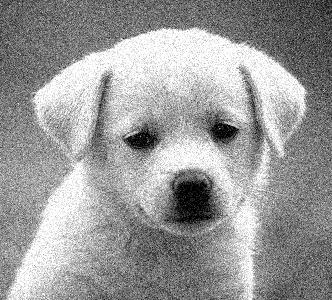
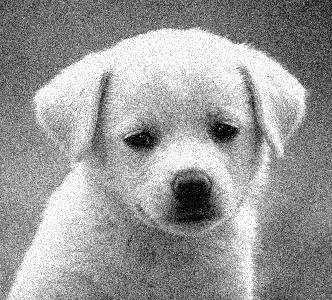
add "PDE on split" part

diff --git a/main.py b/main.py
@@ -154,19 +154,19 @@ def PDE():
     # parameters
     num_col = 5
     iterations = 80
-    b_gaussian = 0.1
+    k_gaussian = 0.1
     lamb_gaussian = 0.1
-    b_sp = 0.1
+    k_sp = 0.1
     lamb_sp = 0.1
-    b_sp1 = 0.2
+    k_sp1 = 0.2
 
     print("applying PDE with Gaussian noise image...")
 
     log_Gaussian_PDE = anisotropic_diffusion(GAUSSIAN_IMAGE, log_freq=iterations / (num_col - 1), iterations=iterations,
-                                             b=b_gaussian, lamb=lamb_gaussian)
+                                             k=k_gaussian, lamb=lamb_gaussian)
 
     figure = plt.figure()
-    plt.title("PDE on Gaussian Noise Image with k = " + str(b_gaussian))
+    plt.title("PDE on Gaussian Noise Image with k = " + str(k_gaussian))
     plt.axis('off')
     plt.gray()
 
@@ -191,11 +191,12 @@ def PDE():
 
     iterations_sp = 160
 
-    log_SA_PDE = anisotropic_diffusion(SALT_PEPPER_IMAGE, log_freq=iterations_sp / (num_col - 1), iterations=iterations_sp,
-                                       b=b_sp, lamb=lamb_sp)
+    log_SA_PDE = anisotropic_diffusion(SALT_PEPPER_IMAGE, log_freq=iterations_sp / (num_col - 1),
+                                       iterations=iterations_sp,
+                                       k=k_sp, lamb=lamb_sp)
 
     figure = plt.figure()
-    plt.title("PDE on Salt & Pepper Noise Image with k = " + str(b_sp))
+    plt.title("PDE on Salt & Pepper Noise Image with k = " + str(k_sp))
     plt.axis('off')
     plt.gray()
 
@@ -219,10 +220,10 @@ def PDE():
     print("applying PDE with Salt & Pepper noise image (k = 0.2)...")
 
     log_SA_PDE1 = anisotropic_diffusion(SALT_PEPPER_IMAGE, log_freq=iterations / (num_col - 1), iterations=iterations,
-                                        b=b_sp1, lamb=lamb_sp)
+                                        k=k_sp1, lamb=lamb_sp)
 
     figure = plt.figure()
-    plt.title("PDE on Salt & Pepper Noise Image with k = " + str(b_sp1))
+    plt.title("PDE on Salt & Pepper Noise Image with k = " + str(k_sp1))
     plt.axis('off')
     plt.gray()
 
@@ -305,10 +306,8 @@ def compare_k():
 
     iterations_gaussian = 40
     iterations_sp = 100
-    b = np.arange(0.05, 0.61, 0.01)
+    k = np.arange(0.05, 0.61, 0.01)
     lamb = 0.1
-    b_gaussian = [0.05, 0.1, 0.15, 0.2, 0.25, 0.3, 0.35, 0.4]
-    b_sp = [0.2, 0.25, 0.3, 0.35, 0.4, 0.45, 0.5, 0.55]
 
     result_image_gaussian = []
     result_psnr_gaussian = []
@@ -318,16 +317,16 @@ def compare_k():
 
     original_image = np.array(Image.open(ORIGINAL_IMAGE).convert('L')) / 255
 
-    for each_b in b:
+    for each_k in k:
         log = anisotropic_diffusion(GAUSSIAN_IMAGE, log_freq=iterations_gaussian,
                                     iterations=iterations_gaussian,
-                                    b=each_b, lamb=lamb)
+                                    k=each_k, lamb=lamb)
         result_image_gaussian.append(log[-1])
         result_psnr_gaussian.append(PSNR(log[-1], original_image))
 
         log = anisotropic_diffusion(SALT_PEPPER_IMAGE, log_freq=iterations_sp,
                                     iterations=iterations_sp,
-                                    b=each_b, lamb=lamb)
+                                    k=each_k, lamb=lamb)
         result_image_sp.append(log[-1])
         result_psnr_sp.append(PSNR(log[-1], original_image))
 
@@ -339,19 +338,158 @@ def compare_k():
     plt.gray()
 
     ax1 = figure.add_subplot(2, 1, 1)
-    ax1.plot(b, result_psnr_gaussian, ".-")
+    ax1.plot(k, result_psnr_gaussian, ".-")
     plt.xlabel("k")
     plt.ylabel("PSNR/dB")
     plt.title("PSNR for Gaussian Noise image with 40 iterations")
 
     ax2 = figure.add_subplot(2, 1, 2)
-    ax2.plot(b, result_psnr_sp, ".-")
+    ax2.plot(k, result_psnr_sp, ".-")
     plt.xlabel("k")
     plt.ylabel("PSNR/dB")
     plt.title("PSNR for Salt & Pepper Noise image with 100 iterations")
 
     figure.tight_layout()
     plt.savefig("images/PDE_k.jpg")
+    plt.show()
+
+    print("")
+
+
+def split_PDE():
+    print("splitting the image to apply PDE respectively...")
+
+    original_image = np.array(Image.open(ORIGINAL_IMAGE).convert('L')) / 255
+
+    gaussian_image = np.array(Image.open(GAUSSIAN_IMAGE).convert('L')) / 255
+    gaussian_pde_result = anisotropic_diffusion(GAUSSIAN_IMAGE, log_freq=40, iterations=40, k=0.1, lamb=0.1)[-1]
+
+    salt_pepper_image = np.array(Image.open(SALT_PEPPER_IMAGE).convert('L')) / 255
+    salt_pepper_pde_result = anisotropic_diffusion(GAUSSIAN_IMAGE, log_freq=100, iterations=100, k=0.1, lamb=0.1)[-1]
+
+    gaussian_pde_result_2x2 = np.zeros(original_image.shape, np.float64)
+    gaussian_pde_result_4x4 = np.zeros(original_image.shape, np.float64)
+    salt_pepper_pde_result_2x2 = np.zeros(original_image.shape, np.float64)
+    salt_pepper_pde_result_4x4 = np.zeros(original_image.shape, np.float64)
+
+    h = original_image.shape[0]
+    w = original_image.shape[1]
+
+    div = 2
+    unit_h = int(h / div)
+    unit_w = int(w / div)
+
+    for i in range(div):
+        for j in range(div):
+            gaussian_part = gaussian_image[i * unit_h: (i + 1) * unit_h, j * unit_w: (j + 1) * unit_w]
+            gaussian_filename = "./images/split" + str(div) + "x" + str(div) + "/gaussian" + str(i) + str(j) + ".jpg"
+            imageio.imwrite(gaussian_filename, np.uint8(gaussian_part * 255))
+            gaussian_pde_result_2x2[i * unit_h: (i + 1) * unit_h, j * unit_w: (j + 1) * unit_w] = \
+                anisotropic_diffusion(gaussian_filename, log_freq=40, iterations=40, k=0.1, lamb=0.1)[-1]
+
+            salt_pepper_part = salt_pepper_image[i * unit_h: (i + 1) * unit_h, j * unit_w: (j + 1) * unit_w]
+            salt_pepper_filename = "./images/split" + str(div) + "x" + str(div) + "/salt_pepper" + str(i) + str(
+                j) + ".jpg"
+            imageio.imwrite(salt_pepper_filename, np.uint8(salt_pepper_part * 255))
+            salt_pepper_pde_result_2x2[i * unit_h: (i + 1) * unit_h, j * unit_w: (j + 1) * unit_w] = \
+                anisotropic_diffusion(salt_pepper_filename, log_freq=100, iterations=100, k=0.1, lamb=0.1)[-1]
+
+    div = 4
+    unit_h = int(h / div)
+    unit_w = int(w / div)
+
+    for i in range(div):
+        for j in range(div):
+            gaussian_part = gaussian_image[i * unit_h: (i + 1) * unit_h, j * unit_w: (j + 1) * unit_w]
+            gaussian_filename = "./images/split" + str(div) + "x" + str(div) + "/gaussian" + str(i) + str(j) + ".jpg"
+            imageio.imwrite(gaussian_filename, np.uint8(gaussian_part * 255))
+            gaussian_pde_result_4x4[i * unit_h: (i + 1) * unit_h, j * unit_w: (j + 1) * unit_w] = \
+                anisotropic_diffusion(gaussian_filename, log_freq=40, iterations=40, k=0.1, lamb=0.1)[-1]
+
+            salt_pepper_part = salt_pepper_image[i * unit_h: (i + 1) * unit_h, j * unit_w: (j + 1) * unit_w]
+            salt_pepper_filename = "./images/split" + str(div) + "x" + str(div) + "/salt_pepper" + str(i) + str(
+                j) + ".jpg"
+            imageio.imwrite(salt_pepper_filename, np.uint8(salt_pepper_part * 255))
+            salt_pepper_pde_result_4x4[i * unit_h: (i + 1) * unit_h, j * unit_w: (j + 1) * unit_w] = \
+                anisotropic_diffusion(salt_pepper_filename, log_freq=100, iterations=100, k=0.1, lamb=0.1)[-1]
+
+    psnr_gaussian = round(PSNR(gaussian_image, original_image), 4)
+    psnr_gaussian_1x1 = round(PSNR(gaussian_pde_result, original_image), 4)
+    psnr_gaussian_2x2 = round(PSNR_split(gaussian_pde_result_2x2, original_image, gaussian_pde_result), 4)
+    psnr_gaussian_4x4 = round(PSNR_split(gaussian_pde_result_4x4, original_image, gaussian_pde_result), 4)
+
+    psnr_salt_pepper = round(PSNR(salt_pepper_image, original_image), 4)
+    psnr_salt_pepper_1x1 = round(PSNR(salt_pepper_pde_result, original_image), 4)
+    psnr_salt_pepper_2x2 = round(PSNR_split(salt_pepper_pde_result_2x2, original_image, salt_pepper_pde_result), 4)
+    psnr_salt_pepper_4x4 = round(PSNR_split(salt_pepper_pde_result_4x4, original_image, salt_pepper_pde_result), 4)
+
+    print("\tPSNR for gaussian noise image:", str(psnr_gaussian))
+    print("\tPSNR for PDE on gaussian noise image with split 1x1:", str(psnr_gaussian_1x1))
+    print("\tPSNR for PDE on gaussian noise image with split 2x2:", str(psnr_gaussian_2x2))
+    print("\tPSNR for PDE on gaussian noise image with split 4x4:", str(psnr_gaussian_4x4))
+
+    print("")
+
+    print("\tPSNR for salt & pepper noise image:", str(psnr_salt_pepper))
+    print("\tPSNR for PDE on salt & pepper noise image with split 1x1:", str(psnr_salt_pepper_1x1))
+    print("\tPSNR for PDE on salt & pepper noise image with split 2x2:", str(psnr_salt_pepper_2x2))
+    print("\tPSNR for PDE on salt & pepper noise image with split 4x4:", str(psnr_salt_pepper_4x4))
+
+    figure = plt.figure()
+    plt.title("PSNR for different split")
+    plt.axis('off')
+    plt.gray()
+
+    ax1 = figure.add_subplot(2, 4, 1)
+    plt.title("Gaussian")
+    plt.text(166., 320., "PSNR: " + str(round(psnr_gaussian, 2)), size=10, ha="center", va="top", )
+    plt.axis('off')
+    ax1.imshow(gaussian_image)
+
+    ax2 = figure.add_subplot(2, 4, 2)
+    plt.title("1 x 1")
+    plt.text(166., 320., "PSNR: " + str(round(psnr_gaussian_1x1, 2)), size=10, ha="center", va="top",)
+    plt.axis('off')
+    ax2.imshow(gaussian_pde_result)
+
+    ax3 = figure.add_subplot(2, 4, 3)
+    plt.title("2 x 2")
+    plt.text(166., 320., "PSNR: " + str(round(psnr_gaussian_2x2, 2)), size=10, ha="center", va="top", )
+    plt.axis('off')
+    ax3.imshow(gaussian_pde_result_2x2)
+
+    ax4 = figure.add_subplot(2, 4, 4)
+    plt.title(psnr_gaussian_4x4)
+    plt.title("4 x 4")
+    plt.text(166., 320., "PSNR: " + str(round(psnr_gaussian_4x4, 2)), size=10, ha="center", va="top", )
+    plt.axis('off')
+    ax4.imshow(gaussian_pde_result_4x4)
+
+    ax5 = figure.add_subplot(2, 4, 5)
+    plt.title("Salt & Pepper")
+    plt.text(166., 320., "PSNR: " + str(round(psnr_salt_pepper, 2)), size=10, ha="center", va="top", )
+    plt.axis('off')
+    ax5.imshow(salt_pepper_image)
+
+    ax6 = figure.add_subplot(2, 4, 6)
+    plt.title("1 x 1")
+    plt.text(166., 320., "PSNR: " + str(round(psnr_salt_pepper_1x1, 2)), size=10, ha="center", va="top", )
+    plt.axis('off')
+    ax6.imshow(salt_pepper_pde_result)
+
+    ax7 = figure.add_subplot(2, 4, 7)
+    plt.title("2 x 2")
+    plt.text(166., 320., "PSNR: " + str(round(psnr_salt_pepper_2x2, 2)), size=10, ha="center", va="top", )
+    plt.axis('off')
+    ax7.imshow(salt_pepper_pde_result_2x2)
+
+    ax8 = figure.add_subplot(2, 4, 8)
+    plt.title("4 x 4")
+    plt.text(166., 320., "PSNR: " + str(round(psnr_salt_pepper_4x4, 2)), size=10, ha="center", va="top", )
+    plt.axis('off')
+    ax8.imshow(salt_pepper_pde_result_4x4)
+
+    plt.savefig("./images/split_PDE.jpg")
     plt.show()
 
 
@@ -363,10 +501,10 @@ def main():
     gaussian_low_pass_filter_and_edge_detection()
     PDE()
     compare_k()
+    split_PDE()
 
     print("\ndone...")
 
 
 if __name__ == "__main__":
     main()
-

diff --git a/Perona_Malik.py b/Perona_Malik.py
@@ -2,21 +2,22 @@ import numpy as np
 from PIL import Image
 import math
 
-def f(lamb, b):
+
+def coefficient(I, k):
     """
-    :param lamb:
-    :param b:
+    :param I:
+    :param k:
     :return:
     """
-    return 1 / (1 + ((lamb / b) ** 2))
+    return 1 / (1 + ((I / k) ** 2))
 
 
-def anisotropic_diffusion(image_location, log_freq, iterations, b, lamb=0.01):
+def anisotropic_diffusion(image_location, log_freq, iterations, k, lamb=0.01):
     """
     :param image_location:
     :param log_freq:
     :param iterations:
-    :param b:
+    :param k:
     :param lamb:
     :return:
     """
@@ -32,10 +33,10 @@ def anisotropic_diffusion(image_location, log_freq, iterations, b, lamb=0.01):
         I_West = image[1:-1, :-2] - image[1:-1, 1:-1]
 
         new_image[1:-1, 1:-1] = image[1:-1, 1:-1] + lamb * (
-            f(I_North, b) * I_North +
-            f(I_South, b) * I_South +
-            f(I_East, b) * I_East +
-            f(I_West, b) * I_West
+            coefficient(I_North, k) * I_North +
+            coefficient(I_South, k) * I_South +
+            coefficient(I_East, k) * I_East +
+            coefficient(I_West, k) * I_West
         )
 
         image = new_image
@@ -63,8 +64,36 @@ def PSNR(target, ref):
     return 20 * math.log10(max_val / math.sqrt(mse))
 
 
+def PSNR_split(target, ref, original_pde_result):
+    """
+    compute the PSNR between result image and original image
+    :param target: type float64
+    :param ref: type float64
+    :param original_pde_result:
+    :return:
+    """
+    h = target.shape[0]
+    w = target.shape[1]
+
+    target_copy = target.copy()
+
+    for i in range(h):
+        for j in range(w):
+            if target_copy[i, j] == 0:
+                target_copy[i, j] = original_pde_result[i, j]
+
+    mse = np.mean((target_copy - ref) ** 2)
+
+    if mse == 0:
+        return 100
+
+    max_val = 1.0
+
+    return 20 * math.log10(max_val / math.sqrt(mse))
+
+
 def test():
-    log = anisotropic_diffusion("images/gaussian_noise_dog.jpg", log_freq=1, iterations=10, b=0.1, lamb=0.1)
+    anisotropic_diffusion("images/gaussian_noise_dog.jpg", log_freq=1, iterations=10, k=0.1, lamb=0.1)
 
 
 if __name__ == "__main__":
